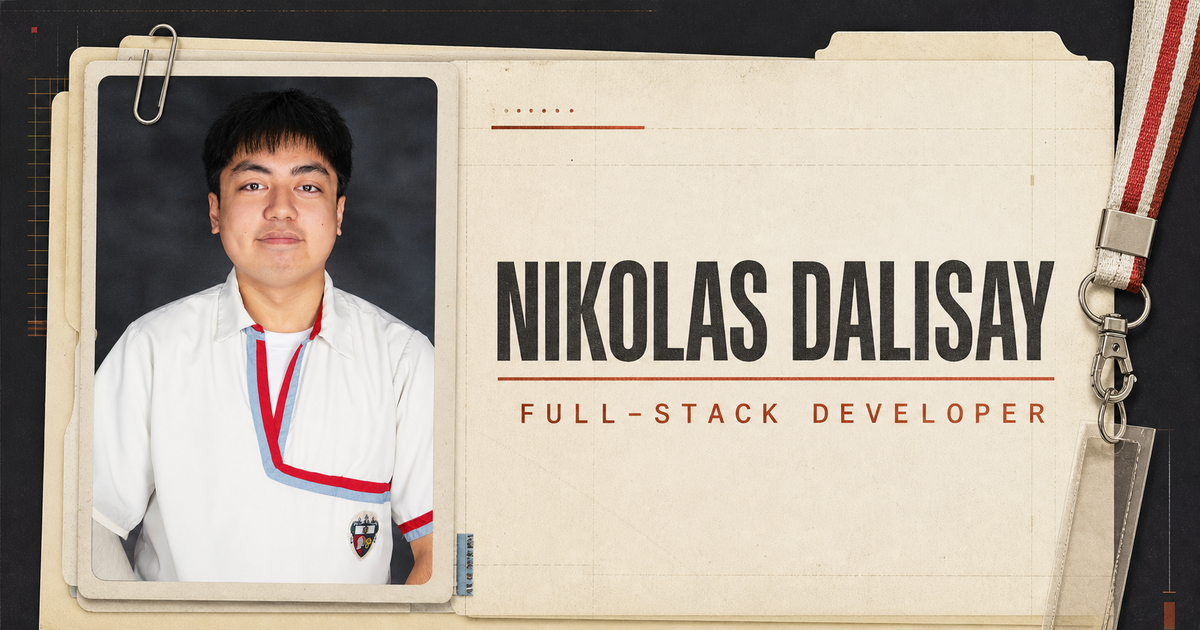
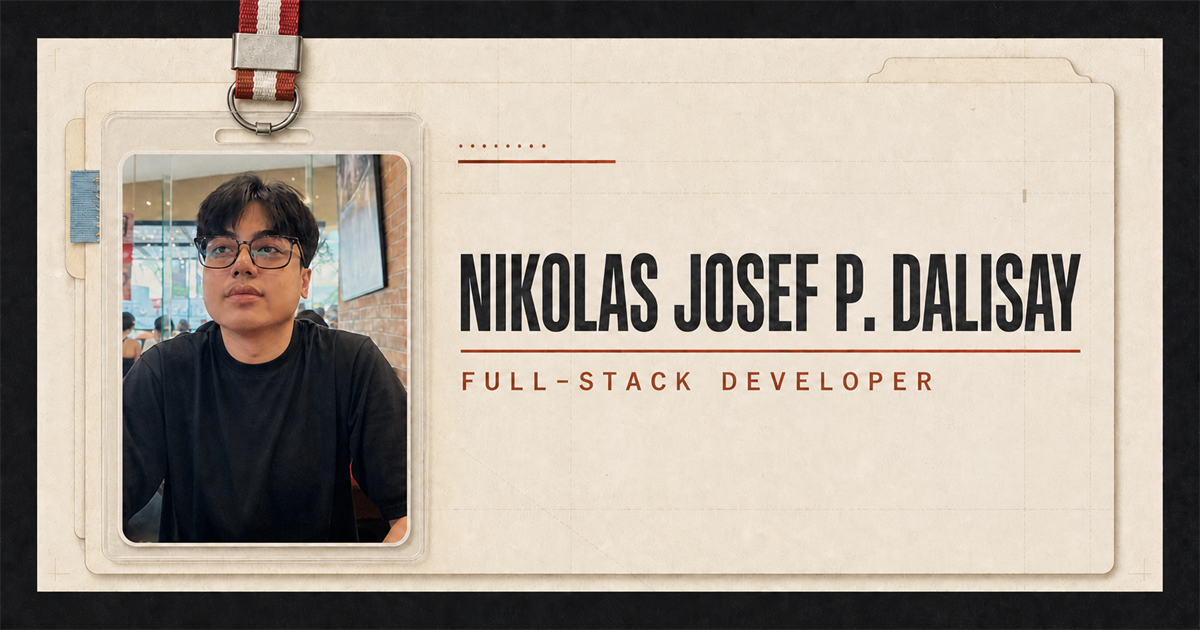
get in touch enhancements and minor general changes

diff --git a/src/App.tsx b/src/App.tsx
@@ -48,6 +48,7 @@ import {
   SiReact,
   SiSpringboot,
   SiSupabase,
+  SiTailwindcss,
   SiTypescript,
   SiVercel,
 } from 'react-icons/si';
@@ -114,6 +115,12 @@ const N8nIcon: IconType = (props) => (
   </svg>
 );
 
+const BrunoIcon: IconType = (props) => (
+  <svg viewBox="0 0 24 24" fill="currentColor" {...props}>
+    <path d="M9.394 9.583s-.742.511-1.13.275c-.387-.236-.51-.742-.274-1.129.236-.388.742-.511 1.129-.275.388.236.275 1.129.275 1.129m1.48 3.245-.308.82.582.24c.04-.224.254-.372.477-.332.224.041.372.254.332.478-.093.515-.638.813-1.122.613l-.95-.391a.41.41 0 0 1-.228-.524l.448-1.193c.12-.32.426-.533.769-.533h2.525l.239.036c.076.023.148.057.214.101a.817.817 0 0 1 .303.363l.476 1.12c.083.197.002.425-.187.524l-.896.471c-.505.266-1.121-.053-1.196-.62a.411.411 0 0 1 .353-.461.411.411 0 0 1 .461.353l.56-.294-.327-.771zM9.353 17.98c-.959-.514-2.183-1.54-1.961-3.22.029-.225.236-.383.461-.354.225.03.383.236.353.461-.167 1.272.822 2.009 1.546 2.395.348.185.771.151 1.081-.092l.903-.708v-1.045c0-.226.184-.41.411-.41s.411.184.411.41v1.045l.903.708c.19.15.423.22.655.209a.45.45 0 0 1 .074-.019.42.42 0 0 1 .093-.003c.089-.02.176-.051.259-.095.724-.386 1.713-1.123 1.546-2.395a.411.411 0 0 1 .353-.461c.225-.029.432.129.461.354.223 1.688-1.013 2.716-1.974 3.227-.072.038-.145.071-.22.099.148 1.424-.14 2.562-.449 3.24-.169.37-.355.617-.49.732-.194.167-.517.305-.933.366-.531.078-1.227.039-1.945-.182-.576-.177-.973-.686-1.208-1.343-.362-1.009-.352-2.368-.33-2.919m4.54.213a1.81 1.81 0 0 1-.939-.376l-.807-.633-.807.633c-.341.268-.758.397-1.173.384-.012.453-.001 1.219.15 1.922.072.333.174.652.329.908.122.2.275.361.486.425.586.18 1.152.218 1.585.155.227-.033.412-.086.518-.176.115-.099.259-.363.395-.744.213-.597.367-1.46.263-2.498m-8.683-.955-.191.402c-.384.81-1.475.955-2.053.27-.81-.961-1.948-2.505-2.548-4.068-.427-1.115-.576-2.241-.213-3.198C2.894 3.559 6.247 2.969 6.98 2.928c1.34-.865 5.583-2.807 10.424.342.795-.051 4.042.203 6.424 7.252.325.961.162 2.081-.263 3.186-.599 1.557-1.709 3.088-2.5 4.046-.574.695-1.675.553-2.061-.262l-.133-.28c-.219.369-.524.832-.901 1.281-.57.679-1.306 1.32-2.154 1.598a.412.412 0 0 1-.519-.263.4114.4114 0 0 1 .263-.518c.705-.231 1.306-.78 1.781-1.345.556-.662.938-1.355 1.097-1.666l-.245-.518c-.126-.264-.154-.56-.078-.842.246-.924.981-4.015.071-6.043a.4105.4105 0 1 1 .749-.336c.993 2.212.243 5.583-.026 6.591a.405.405 0 0 0 .026.278l.811 1.712c.129.27.494.32.685.089.748-.904 1.801-2.346 2.367-3.817.351-.912.52-1.834.252-2.628-2.447-7.241-5.667-6.687-5.667-6.687a.416.416 0 0 1-.309-.061C12.48.972 8.456 2.917 7.339 3.676a.41.41 0 0 1-.252.07S3.739 3.649.973 10.935c-.297.783-.137 1.701.213 2.612.565 1.475 1.644 2.927 2.408 3.833.192.228.555.177.683-.092l.816-1.723a.4.4 0 0 0 .027-.278c-.269-1.008-1.02-4.38-.027-6.592a.4113.4113 0 0 1 .543-.206c.207.093.3.336.207.543-.911 2.028-.176 5.119.071 6.043.075.282.047.578-.078.842l-.203.427c.117.226 1.249 2.351 2.958 2.911.216.071.334.303.263.519a.4115.4115 0 0 1-.519.262c-1.484-.487-2.606-1.983-3.125-2.798m10.247-7.655s-.114-.893.274-1.129a.821.821 0 0 1 1.129.275c.236.387.113.893-.274 1.129-.388.236-1.129-.275-1.129-.275" />
+  </svg>
+);
+
 const skillIcons: Record<string, IconType> = {
   Python: SiPython,
   Java: FaJava,
@@ -127,6 +134,7 @@ const skillIcons: Record<string, IconType> = {
   'Node.js': SiNodedotjs,
   'Spring Boot': SiSpringboot,
   Flutter: SiFlutter,
+  'Tailwind CSS': SiTailwindcss,
   AWS: SiAmazonaws,
   Firebase: SiFirebase,
   Supabase: SiSupabase,
@@ -136,6 +144,7 @@ const skillIcons: Record<string, IconType> = {
   Docker: SiDocker,
   Git: SiGit,
   Postman: SiPostman,
+  Bruno: BrunoIcon,
   n8n: N8nIcon,
   Figma: SiFigma,
   Canva: SiCanva,
@@ -383,7 +392,7 @@ function ContactForm() {
       window.turnstile?.reset(turnstileWidgetId.current);
       setTurnstileToken('');
       setState('success');
-      setFeedback('Message sent. I’ll get back to you soon.');
+      setFeedback('Message sent. I’ll get back to you soon!');
     } catch {
       setState('error');
       setFeedback('The message could not be sent right now. Please email me directly instead.');
@@ -423,7 +432,6 @@ function ContactForm() {
       {siteKey ? (
         <div className="turnstile-wrap">
           <div ref={turnstileContainer} className="turnstile-widget" />
-          <span>Protected against automated spam.</span>
         </div>
       ) : (
         <p className="form-config-note">
@@ -499,7 +507,7 @@ export default function Home() {
             <a className="wordmark" href="#top" aria-label="Nikolas Dalisay, home">
               <img
                 className="wordmark-mark"
-                src="/assets/ace-card-logo.png?v=20260831"
+                src="/assets/logo.png?v=20260831"
                 alt=""
                 width="1222"
                 height="1287"
@@ -526,7 +534,7 @@ export default function Home() {
             <a className="wordmark" href="#top" aria-label="Nikolas Dalisay, home">
               <img
                 className="wordmark-mark"
-                src="/assets/ace-card-logo.png?v=20260831"
+                src="/assets/logo.png?v=20260831"
                 alt=""
                 width="1222"
                 height="1287"
@@ -570,15 +578,15 @@ export default function Home() {
               >
                 <div className="portrait-window">
                   <img
-                    src="/assets/nikolas-portrait.webp"
-                    alt={`${personal.name} wearing a white university uniform`}
-                    width="1200"
-                    height="1800"
+                    src="/assets/portrait.jpg"
+                    alt={`${personal.name} seated in a restaurant, wearing glasses and a black shirt`}
+                    width="2160"
+                    height="2880"
                     fetchPriority="high"
                   />
                 </div>
                 <div className="id-card-footer">
-                  <p>Wow ambait?!</p>
+                  <p>hello po...</p>
                 </div>
                 <span className="fastener fastener-left" aria-hidden="true" />
                 <span className="fastener fastener-right" aria-hidden="true" />
@@ -757,13 +765,13 @@ export default function Home() {
         </section>
 
         <section className="paper-section contact-section" id="contact" aria-labelledby="contact-title">
-          <SectionHeading index="03" title="Get in touch" note="New project / opportunity / collaboration" />
+          <SectionHeading title="Get in touch" />
 
           <div className="contact-grid">
             <Reveal className="contact-copy">
               <p className="contact-lede">
                 Have a product to build, a system to improve, or a role where thoughtful engineering matters?
-                Send me the context and I&apos;ll get back to you.
+                Send me the context and I&apos;ll get back to you!
               </p>
 
               <div className="contact-details">
@@ -791,17 +799,9 @@ export default function Home() {
                 </a>
               </div>
 
-              <div className="availability-stamp">
-                <span>Open to</span>
-                <strong>Employer + client conversations</strong>
-              </div>
             </Reveal>
 
             <Reveal className="contact-form-card" delay={0.08}>
-              <div className="form-card-heading">
-                <span>Secure inquiry form</span>
-                <span>REF / CONTACT-01</span>
-              </div>
               <ContactForm />
             </Reveal>
           </div>
@@ -809,7 +809,6 @@ export default function Home() {
 
         <footer className="site-footer">
           <span>© 2026 {personal.shortName}</span>
-          <span>Designed as a digital field journal.</span>
           <a href="#top">Back to top ↑</a>
         </footer>
       </main>

diff --git a/src/index.css b/src/index.css
@@ -324,15 +324,18 @@ a {
   height: clamp(310px, 43vw, 490px);
   overflow: hidden;
   border: 1px solid var(--ink);
-  background: #25292c;
+  background:
+    linear-gradient(rgba(23, 24, 23, 0.07) 1px, transparent 1px),
+    linear-gradient(90deg, rgba(23, 24, 23, 0.07) 1px, transparent 1px),
+    linear-gradient(145deg, var(--paper-deep), var(--blue-grey));
+  background-size: 24px 24px, 24px 24px, auto;
 }
 
 .portrait-window img {
   width: 100%;
   height: 100%;
   object-fit: cover;
-  object-position: 50% 28%;
-  filter: saturate(0.87) contrast(1.04);
+  object-position: 50% 42%;
 }
 
 .id-card-footer {
@@ -1335,52 +1338,19 @@ a {
   margin-left: auto;
 }
 
-.availability-stamp {
-  width: fit-content;
-  margin-top: 2.5rem;
-  padding: 0.75rem 1rem;
-  border: 2px double var(--oxide);
-  color: var(--oxide-dark);
-  transform: rotate(-2.5deg);
-}
-
-.availability-stamp span,
-.availability-stamp strong {
-  display: block;
-  text-align: center;
-  text-transform: uppercase;
-}
-
-.availability-stamp span {
-  font-family: var(--font-note), cursive;
-  font-size: 1.1rem;
-  text-transform: none;
-}
-
-.availability-stamp strong {
-  font-family: var(--font-display), sans-serif;
-  font-size: 1rem;
-  letter-spacing: 0.06em;
+.contact-availability {
+  align-self: center;
+  margin: 0;
+  color: var(--ink-muted);
+  font-size: 0.76rem;
+  line-height: 1.45;
+  text-align: right;
 }
 
 .contact-form-card {
   border: 1.5px solid var(--ink);
   background: var(--paper);
   box-shadow: 12px 12px 0 var(--oxide);
-}
-
-.form-card-heading {
-  display: flex;
-  justify-content: space-between;
-  gap: 1rem;
-  padding: 0.75rem 1rem;
-  border-bottom: 1.5px solid var(--ink);
-  background: var(--blue-grey);
-  font-family: ui-monospace, SFMono-Regular, Consolas, monospace;
-  font-size: 0.6rem;
-  font-weight: 800;
-  letter-spacing: 0.08em;
-  text-transform: uppercase;
 }
 
 .contact-form {
@@ -1448,7 +1418,6 @@ a {
   gap: 0.75rem;
 }
 
-.turnstile-wrap > span,
 .form-config-note {
   margin: 0;
   color: var(--ink-muted);

diff --git a/index.html b/index.html
@@ -9,14 +9,14 @@
       content="Portfolio of Nikolas Josef P. Dalisay, a full-stack developer building secure, human-centered digital products."
     />
     <meta property="og:type" content="website" />
-    <meta property="og:title" content="Nikolas Dalisay — Full-Stack Developer" />
+    <meta property="og:title" content="Who's Niko? — Nikolas Dalisay" />
     <meta
       property="og:description"
       content="Secure, human-centered products from interface to infrastructure."
     />
     <meta property="og:image" content="/og.png" />
     <meta name="twitter:card" content="summary_large_image" />
-    <meta name="twitter:title" content="Nikolas Dalisay — Full-Stack Developer" />
+    <meta name="twitter:title" content="Who's Niko? — Nikolas Dalisay" />
     <meta
       name="twitter:description"
       content="Secure, human-centered products from interface to infrastructure."
@@ -28,7 +28,7 @@
       href="https://fonts.googleapis.com/css2?family=Barlow+Condensed:wght@500;600;700;800&family=Caveat:wght@500;600;700&family=DM+Sans:wght@400;500;600;700&display=swap"
       rel="stylesheet"
     />
-    <link rel="icon" type="image/png" href="/assets/ace-card-logo.png?v=20260831" />
+    <link rel="icon" type="image/png" href="/assets/logo.png?v=20260831" />
     <title>Who's Niko?</title>
   </head>
   <body>

diff --git a/lib/portfolio-data.ts b/lib/portfolio-data.ts
@@ -8,7 +8,7 @@ export const personal = {
   availability: 'Available for opportunities!',
   linkedin: 'https://www.linkedin.com/in/npdalisay/',
   github: 'https://github.com/dlsynkjsf',
-  resume: '/assets/nikolas-dalisay-resume.pdf',
+  resume: '/assets/Dalisay, Nikolas Josef - Resume.pdf',
 };
 
 export const aboutCopy = [
@@ -24,7 +24,7 @@ export const skillGroups = [
   },
   {
     label: 'Frameworks & Runtime',
-    skills: ['React', 'Node.js', 'Spring Boot', 'Flutter'],
+    skills: ['React', 'Node.js', 'Spring Boot', 'Flutter', 'Tailwind CSS'],
   },
   {
     label: 'Cloud, Data & DevOps',
@@ -32,7 +32,7 @@ export const skillGroups = [
   },
   {
     label: 'Tools, Design & Productivity',
-    skills: ['Postman', 'n8n', 'Figma', 'Canva', 'Adobe Premiere Pro', 'Google Workspace', 'Microsoft Office'],
+    skills: ['Postman', 'Bruno', 'n8n', 'Figma', 'Canva', 'Adobe Premiere Pro', 'Google Workspace', 'Microsoft Office'],
   },
 ];
 
@@ -40,7 +40,7 @@ export const education = [
   {
     period: '2023 — Present',
     school: 'University of Santo Tomas',
-    program: 'Bachelor of Science in Computer Science',
+    program: 'Bachelor of Science in Computer Science (Data Science Track)',
     detail: 'Current GWA: 1.179 · DOST Merit Scholar',
   },
   {
